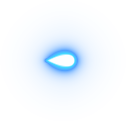
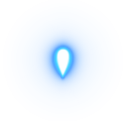
vdir works?

Changed region(s): [[0.3095, 0.3223, 0.6667, 0.6942]]

diff --git a/src/weapon/rail_gun.rs b/src/weapon/rail_gun.rs
@@ -5,6 +5,7 @@ use crate::{
     collider::Bounds,
     entity::EntityUniform,
     input::Input,
+    player::{self, Player},
     sprite_renderer::SpriteRenderer,
     util::CompassDir,
     weapon::projectile::Projectile,
@@ -44,6 +45,7 @@ impl Weapon for RailGun {
         device: &wgpu::Device,
         position: cgmath::Vector2<f32>,
         scale: cgmath::Vector2<f32>,
+        dir: CompassDir,
         input: &Input,
         audio: &mut Audio,
     ) {
@@ -57,7 +59,7 @@ impl Weapon for RailGun {
                 self.projectiles.push(Projectile::new(
                     ((position.x - 2.0) + i as f32 * 5.0, position.y).into(),
                     scale,
-                    cgmath::Deg(-90.0 + (i as f32 * 7.5)),
+                    (dir.angle + cgmath::Deg(180.0)),
                     Bounds {
                         area: scale,
                         origin: cgmath::Point2 {
@@ -66,15 +68,15 @@ impl Weapon for RailGun {
                         },
                     },
                     if i == -2 {
-                        CompassDir::from_deg(110.0)
+                        dir
                     } else if i == -1 {
-                        CompassDir::from_deg(100.0)
+                        dir
                     } else if i == 0 {
-                        CompassDir::from_deg(90.0)
+                        dir
                     } else if i == 1 {
-                        CompassDir::from_deg(80.0)
+                        dir
                     } else {
-                        CompassDir::from_deg(70.0)
+                        dir
                     },
                     projectile_uniform,
                 ));
@@ -84,6 +86,7 @@ impl Weapon for RailGun {
 
     fn update(&mut self, queue: &mut wgpu::Queue, dt: &instant::Duration, time: f64) {
         for projectile in &mut self.projectiles {
+            // println!("p: {:?}", projectile.dir);
             if projectile.alive {
                 projectile.set_bounds(Bounds {
                     origin: cgmath::Point2::new(

diff --git a/src/player.rs b/src/player.rs
@@ -1,5 +1,6 @@
 use crate::audio::Audio;
 use crate::uniform;
+use crate::util::CompassDir;
 use crate::weapon::cannon::Cannon;
 use crate::weapon::laser::Laser;
 use crate::weapon::rail_gun::RailGun;
@@ -31,9 +32,9 @@ impl Player {
             position,
             scale,
             alive: true,
-            rotation: cgmath::Deg(0.0),
+            rotation: cgmath::Deg(360.0),
             uniform,
-            active_weapon: Laser::new(device, queue),
+            active_weapon: RailGun::new(60, device, queue),
         }
     }
 
@@ -55,11 +56,12 @@ impl Player {
         } else if input.is_pressed("w") {
             self.movement("w", dt);
         }
-
+        println!("{:?}", self.rotation);
         self.active_weapon.shoot(
             device,
             (self.position.x + self.scale.x / 3.0, self.position.y).into(),
-            (24.0, 0.0).into(),
+            (40.0, 40.0).into(),
+            CompassDir::from_deg(self.rotation.0),
             input,
             audio,
         );

diff --git a/src/weapon/projectile.rs b/src/weapon/projectile.rs
@@ -1,4 +1,6 @@
-use crate::{collider::Bounds, entity::EntityUniform, uniform, util::CompassDir};
+use crate::{
+    collider::Bounds, entity::EntityUniform, uniform, util::CompassDir, weapon::projectile,
+};
 
 pub struct Projectile {
     pub position: cgmath::Vector2<f32>,
@@ -22,7 +24,7 @@ impl Projectile {
         Self {
             position,
             scale,
-            rotation,
+            rotation: CompassDir::from_deg(dir.angle.0).angle,
             bounds,
             dir,
             alive: true,
@@ -31,6 +33,7 @@ impl Projectile {
     }
     // todo remove label :3
     pub fn update(&mut self, dt: &instant::Duration, fire_speed: f32, label: &str) {
+        println!("p: {:?}", self.rotation);
         self.uniform
             .data
             .set_position(self.position)

diff --git a/src/state.rs b/src/state.rs
@@ -244,8 +244,7 @@ impl State {
             let angle = dy.atan2(dx);
 
             let angle = angle * 180.0 / std::f32::consts::PI;
-
-            self.player.rotation = cgmath::Deg(angle + 90.0);
+            self.player.rotation = cgmath::Deg(angle + 90.0); // adjust sprite rotation;
             if e.alive {
                 e.uniform.write(&mut self.queue);
             }
@@ -284,7 +283,6 @@ impl State {
                     min_dist = dist;
                 }
 
-                println!("{:?},{:?}", p.position, self.player.position);
                 if check_collision(
                     p.bounds,
                     Bounds {

diff --git a/src/weapon/weapon.rs b/src/weapon/weapon.rs
@@ -1,7 +1,13 @@
 use std::slice::IterMut;
 
 use super::projectile::Projectile;
-use crate::{audio::Audio, collider::Bounds, input::Input};
+use crate::{
+    audio::Audio,
+    collider::Bounds,
+    input::Input,
+    player::{self, Player},
+    util::CompassDir,
+};
 
 pub trait Weapon {
     fn shoot(
@@ -9,6 +15,7 @@ pub trait Weapon {
         device: &wgpu::Device,
         position: cgmath::Vector2<f32>,
         scale: cgmath::Vector2<f32>,
+        dir: CompassDir,
         input: &Input,
         audio: &mut Audio,
     ) {

diff --git a/src/util.rs b/src/util.rs
@@ -9,12 +9,16 @@ pub struct CompassDir {
 
 impl CompassDir {
     pub fn from_deg(angle: f32) -> Self {
-        let angle = cgmath::Deg(angle);
+        let mut angle = cgmath::Deg(90.0 - angle);
         let dir = cgmath::Vector2 {
             x: angle.cos(),
             y: angle.sin(),
         }
         .normalize();
+
+        if angle < cgmath::Deg(0.0) {
+            angle += cgmath::Deg(360.0);
+        }
 
         Self { dir, angle }
     }

diff --git a/src/weapon/cannon.rs b/src/weapon/cannon.rs
@@ -5,6 +5,7 @@ use crate::{
     collider::Bounds,
     entity::EntityUniform,
     input::Input,
+    player,
     sprite_renderer::SpriteRenderer,
     util::CompassDir,
 };
@@ -43,6 +44,7 @@ impl Weapon for Cannon {
         device: &wgpu::Device,
         position: cgmath::Vector2<f32>,
         scale: cgmath::Vector2<f32>,
+        dir: CompassDir,
         input: &Input,
         audio: &mut Audio,
     ) {

diff --git a/src/weapon/laser.rs b/src/weapon/laser.rs
@@ -32,6 +32,7 @@ impl Weapon for Laser {
         device: &wgpu::Device,
         position: cgmath::Vector2<f32>,
         scale: cgmath::Vector2<f32>,
+        dir: CompassDir,
         input: &Input,
         _audio: &mut Audio,
     ) {
